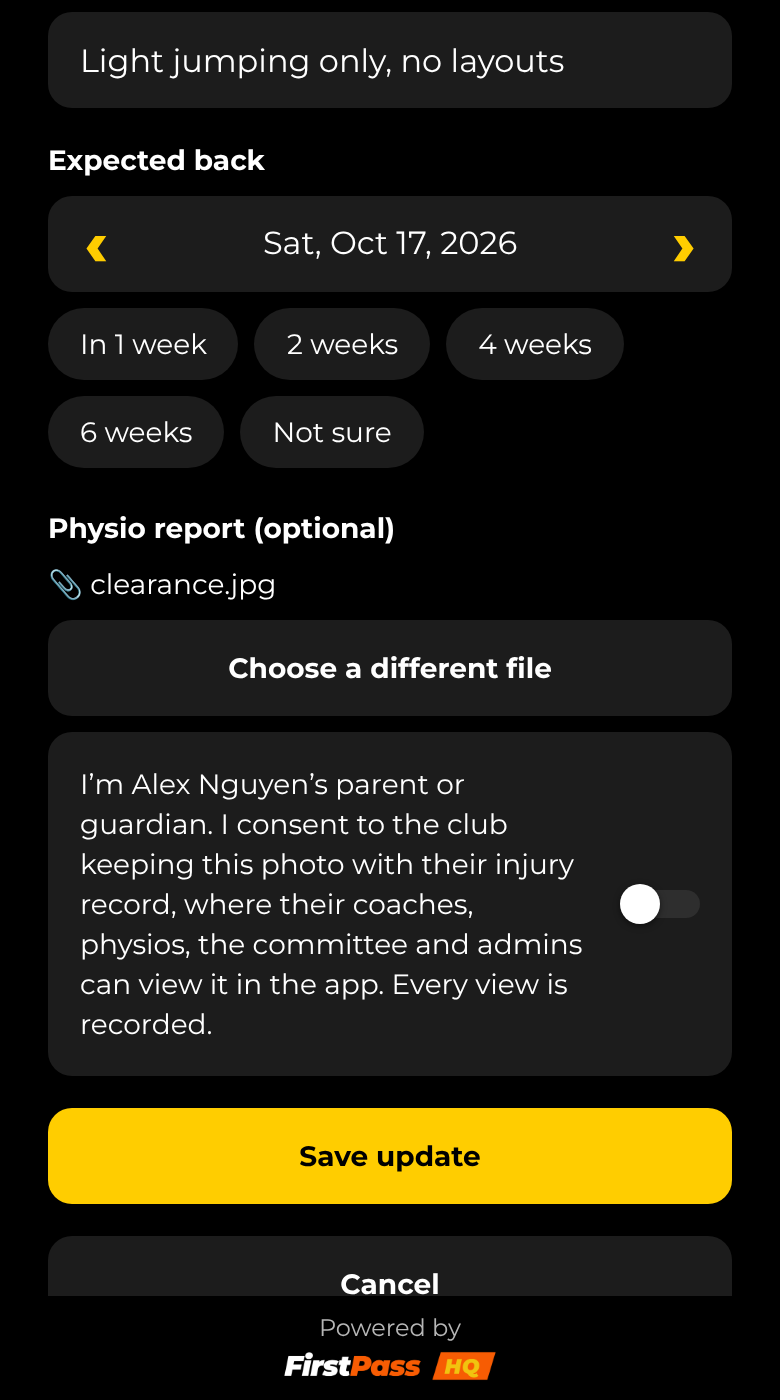
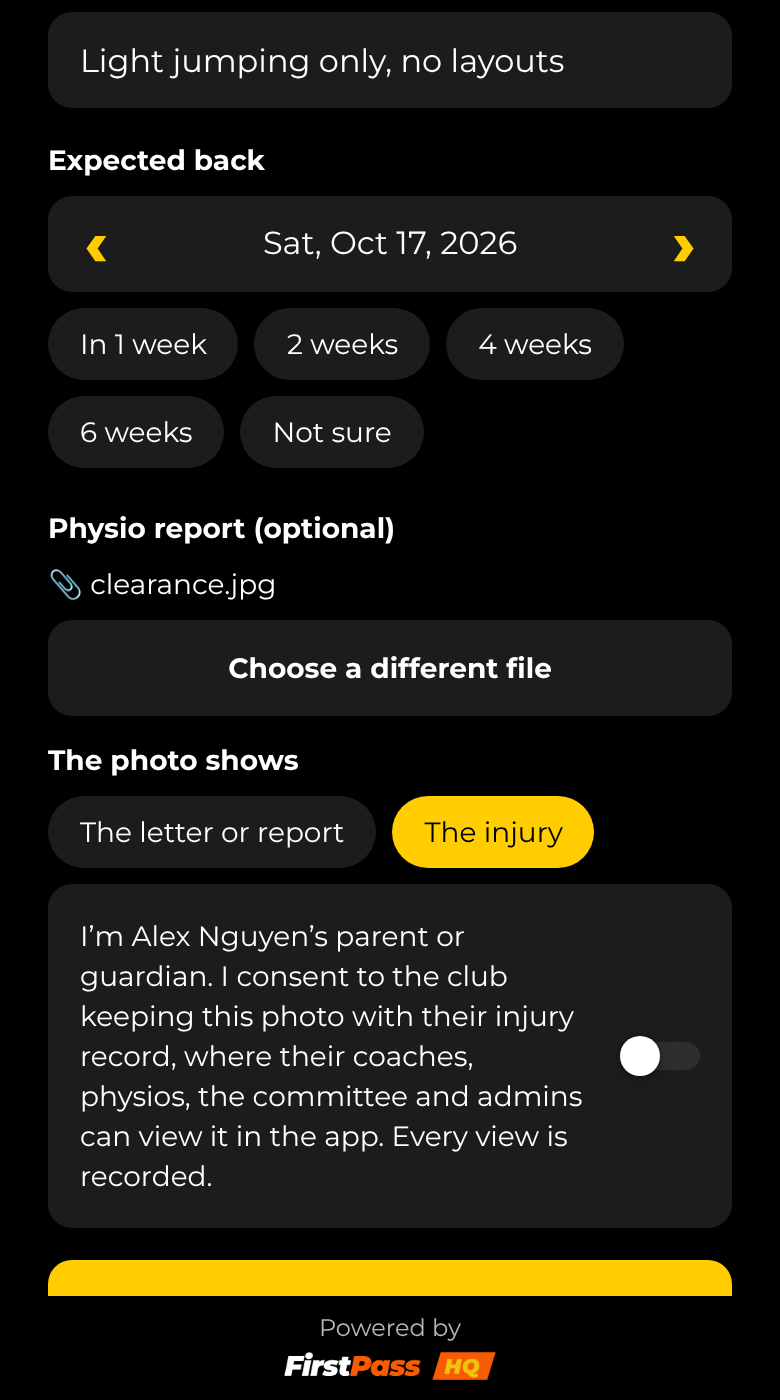
Let under 18s attach a photo of the physio's letter
Families usually photograph the paper letter, so under 18s and their
guardians can now attach a photo once they confirm it shows the letter or
report, not the injury. The confirmation is kept with the photo, with who
gave it and when, and shown with the views and shares. A photo of the
injury itself still needs the club's switch and a verified guardian's
consent.

Claude-Session: https://claude.ai/code/session_01PSj6UtGHkyxoGwMZG7YNkM

Changed region(s): [[0.0615, 0.5221, 0.9538, 0.9521]]

diff --git a/src/app/injuries/[id].tsx b/src/app/injuries/[id].tsx
@@ -8,7 +8,7 @@ import { StatusPill } from '@/components/injury-card';
 import { RaiseConcernLink } from '@/components/safeguarding';
 import { Screen } from '@/components/screen';
 import { ThemedText } from '@/components/themed-text';
-import { Button, Card, ErrorText, TextField } from '@/components/ui';
+import { Button, Card, ChipGroup, ErrorText, TextField } from '@/components/ui';
 import { Spacing } from '@/constants/theme';
 import { useTheme } from '@/hooks/use-theme';
 import { useAuth } from '@/lib/auth';
@@ -17,6 +17,7 @@ import {
   DOCUMENT_TYPES,
   type DocumentRule,
   formatDateString,
+  type PhotoShows,
   injuryUpdateLabels,
   returnQuickPicks,
   shareInjuryDocument,
@@ -285,8 +286,9 @@ function ActionForm({
   const [restrictions, setRestrictions] = useState(injury.restrictions ?? '');
   const [expectedReturn, setExpectedReturn] = useState(injury.expected_return);
   const [attachment, setAttachment] = useState<DocumentPicker.DocumentPickerAsset | null>(null);
-  const [rule, setRule] = useState<DocumentRule>('pdf');
-  const [consent, setConsent] = useState(false);
+  const [rule, setRule] = useState<DocumentRule>('letter');
+  const [shows, setShows] = useState<PhotoShows>('letter');
+  const [confirmed, setConfirmed] = useState(false);
   const [saving, setSaving] = useState(false);
   const [error, setError] = useState<string | null>(null);
   const allowsDocument = action === 'update' || action === 'clearance';
@@ -296,18 +298,18 @@ function ActionForm({
     if (!allowsDocument) return;
     supabase
       .rpc('injury_document_rule', { p_athlete_id: injury.athlete_id })
-      .then(({ data }) => setRule((data as DocumentRule | null) ?? 'pdf'));
+      .then(({ data }) => setRule((data as DocumentRule | null) ?? 'letter'));
   }, [allowsDocument, injury.athlete_id]);
 
   async function pickDocument() {
     const result = await DocumentPicker.getDocumentAsync({
-      // Under 18s attach a letter or report, not a photo of the injury.
-      type: rule === 'pdf' ? ['application/pdf'] : DOCUMENT_TYPES,
+      type: DOCUMENT_TYPES,
       copyToCacheDirectory: true,
     });
     if (!result.canceled) {
       setAttachment(result.assets[0]);
-      setConsent(false);
+      setShows('letter');
+      setConfirmed(false);
       setError(null);
     }
   }
@@ -327,7 +329,7 @@ function ActionForm({
     setError(null);
     try {
       const path = attachment
-        ? await uploadInjuryDocument(injury, attachment, rule, consent)
+        ? await uploadInjuryDocument(injury, attachment, rule, confirmed ? shows : null)
         : null;
       const { error: rpcError } = await rpc(path);
       if (rpcError) throw new Error(rpcError.message);
@@ -415,11 +417,17 @@ function ActionForm({
             variant="secondary"
             onPress={pickDocument}
           />
-          {isPhoto && rule === 'consent' ? (
-            <PhotoConsent
+          {isPhoto && rule !== 'photos' ? (
+            <PhotoDeclaration
               athleteName={injury.athlete_name ?? 'my child'}
-              value={consent}
-              onChange={setConsent}
+              canShowInjury={rule === 'consent'}
+              shows={shows}
+              onShows={(value) => {
+                setShows(value);
+                setConfirmed(false);
+              }}
+              confirmed={confirmed}
+              onConfirm={setConfirmed}
             />
           ) : null}
         </View>
@@ -438,38 +446,65 @@ function ActionForm({
 
 const documentHint: Record<DocumentRule, string> = {
   photos: 'A PDF or photo.',
+  letter: 'A PDF or a photo of the physio’s or doctor’s letter or report, not of the injury.',
   consent:
-    'A PDF of the letter or report. A photo of the injury only if you consent to the club keeping it.',
-  pdf: 'Attach the letter or report as a PDF, not a photo of the injury.',
+    'A PDF or a photo of the letter or report. A photo of the injury only if you consent to the club keeping it.',
 };
 
-/** A guardian's consent to the club keeping a photo of their child's injury. */
-function PhotoConsent({
+/**
+ * For an athlete under 18: what the photo shows, confirmed before it's sent.
+ * A photo of the injury itself is only offered to a verified guardian, when
+ * the club allows it, and needs their consent.
+ */
+function PhotoDeclaration({
   athleteName,
-  value,
-  onChange,
+  canShowInjury,
+  shows,
+  onShows,
+  confirmed,
+  onConfirm,
 }: {
   athleteName: string;
-  value: boolean;
-  onChange: (value: boolean) => void;
+  canShowInjury: boolean;
+  shows: PhotoShows;
+  onShows: (value: PhotoShows) => void;
+  confirmed: boolean;
+  onConfirm: (value: boolean) => void;
 }) {
   const theme = useTheme();
   return (
-    <Card style={styles.consent}>
-      <ThemedText type="small" style={styles.grow}>
-        I’m {athleteName}’s parent or guardian. I consent to the club keeping this photo with their
-        injury record, where their coaches, physios, the committee and admins can view it in the
-        app. Every view is recorded.
-      </ThemedText>
-      <Switch
-        accessibilityLabel="I consent to the club keeping this photo"
-        value={value}
-        onValueChange={onChange}
-        trackColor={{ true: theme.accent, false: theme.backgroundSelected }}
-        thumbColor={theme.text}
-        {...(Platform.OS === 'web' ? { activeThumbColor: theme.onAccent } : {})}
-      />
-    </Card>
+    <View style={styles.document}>
+      {canShowInjury ? (
+        <ChipGroup
+          label="The photo shows"
+          options={[
+            { value: 'letter', label: 'The letter or report' },
+            { value: 'injury', label: 'The injury' },
+          ]}
+          selected={[shows]}
+          onToggle={(value) => onShows(value)}
+        />
+      ) : null}
+      <Card style={styles.consent}>
+        <ThemedText type="small" style={styles.grow}>
+          {shows === 'injury'
+            ? `I’m ${athleteName}’s parent or guardian. I consent to the club keeping this photo with their injury record, where their coaches, physios, the committee and admins can view it in the app. Every view is recorded.`
+            : 'This is a photo of the physio’s or doctor’s letter or report, not of the injury.'}
+        </ThemedText>
+        <Switch
+          accessibilityLabel={
+            shows === 'injury'
+              ? 'I consent to the club keeping this photo'
+              : 'This is a photo of the letter or report'
+          }
+          value={confirmed}
+          onValueChange={onConfirm}
+          trackColor={{ true: theme.accent, false: theme.backgroundSelected }}
+          thumbColor={theme.text}
+          {...(Platform.OS === 'web' ? { activeThumbColor: theme.onAccent } : {})}
+        />
+      </Card>
+    </View>
   );
 }
 
@@ -477,6 +512,7 @@ const eventLabels: Record<InjuryDocumentEvent['kind'], string> = {
   viewed: 'Viewed by',
   shared: 'Shared by',
   consented: 'Photo consent from',
+  letter_declared: 'Confirmed as a photo of the letter by',
 };
 
 /**

diff --git a/src/lib/injuries.ts b/src/lib/injuries.ts
@@ -123,20 +123,23 @@ export function formatDateString(value: string) {
 // ---------------------------------------------------------------------------
 
 /**
- * What the signed-in member can attach for an athlete: 'photos' (a PDF or a
- * photo), 'consent' (a verified guardian may add a photo of their child once
- * they confirm consent) or 'pdf' (under 18s: a letter or report as a PDF).
+ * What the signed-in member can attach for an athlete: 'photos' (adults: a
+ * PDF or any photo), 'letter' (under 18s: a PDF, or a photo confirmed to show
+ * the letter or report) or 'consent' (as 'letter', and a verified guardian
+ * may also add a photo of their child's injury once they confirm consent).
  */
-export type DocumentRule = 'photos' | 'consent' | 'pdf';
+export type DocumentRule = 'photos' | 'letter' | 'consent';
 
-export const PDF_ONLY_MESSAGE = 'Attach the letter or report as a PDF, not a photo of the injury.';
+/** What someone adding a photo for an athlete under 18 says it shows. */
+export type PhotoShows = 'letter' | 'injury';
 
 /** Uploads a picked file for an injury and returns its storage path. */
 export async function uploadInjuryDocument(
   injury: Pick<Injury, 'id' | 'athlete_id'>,
   asset: DocumentPickerAsset,
   rule: DocumentRule,
-  photoConsent: boolean,
+  /** What the photo shows, once confirmed; null when it hasn't been. */
+  photoShows: PhotoShows | null,
 ) {
   if (asset.size && asset.size > MAX_DOCUMENT_BYTES) {
     throw new Error('That file is over 10 MB. Try a smaller photo or a PDF.');
@@ -146,19 +149,23 @@ export async function uploadInjuryDocument(
     throw new Error('Attach a PDF or a photo (JPEG, PNG or HEIC).');
   }
   const photo = contentType !== 'application/pdf';
-  if (photo && rule === 'pdf') throw new Error(PDF_ONLY_MESSAGE);
-  if (photo && rule === 'consent' && !photoConsent) {
-    throw new Error('Confirm your consent before adding a photo of your child.');
+  const declare = photo && rule !== 'photos';
+  if (declare && !photoShows) {
+    throw new Error('Confirm what the photo shows before sending it.');
+  }
+  if (declare && photoShows === 'injury' && rule !== 'consent') {
+    throw new Error('Attach a photo of the letter or report, not of the injury.');
   }
   const body =
     Platform.OS === 'web' && asset.file ? asset.file : await new File(asset.uri).arrayBuffer();
   const path = `${injury.athlete_id}/${injury.id}/${Date.now()}-${safeFileName(asset.name, contentType)}`;
-  if (photo && rule === 'consent') {
-    // The consent is recorded with the photo's path before it uploads.
-    const { error: consentError } = await supabase.rpc('confirm_injury_photo_consent', {
+  if (declare) {
+    // What it shows is recorded with the photo's path before it uploads.
+    const { error: declareError } = await supabase.rpc('confirm_injury_photo', {
       p_path: path,
+      p_kind: photoShows,
     });
-    if (consentError) throw new Error(consentError.message);
+    if (declareError) throw new Error(declareError.message);
   }
   const { error } = await supabase.storage.from(INJURY_BUCKET).upload(path, body, {
     contentType,

diff --git a/src/lib/types.ts b/src/lib/types.ts
@@ -235,12 +235,15 @@ export type InjuryUpdate = {
   created_at: string;
 };
 
-/** A view, share or photo consent on an injury document, for the athlete, guardians and admins. */
+/**
+ * A view, share or photo declaration on an injury document, for the athlete,
+ * guardians and admins.
+ */
 export type InjuryDocumentEvent = {
   document_path: string;
   viewer_name: string | null;
   viewer_role: string | null;
-  kind: 'viewed' | 'shared' | 'consented';
+  kind: 'viewed' | 'shared' | 'consented' | 'letter_declared';
   created_at: string;
 };
 

diff --git a/docs/user-guide.md b/docs/user-guide.md
@@ -478,8 +478,9 @@ Open the injury to see its details and history. While you're injured:
 
 - **Add physio update** records what the physio said, any change to restrictions or your expected
   return date, and optionally a physio report (up to 10 MB). Adults can attach a PDF or a photo.
-  If you're under 18, attach the letter or report as a PDF, not a photo of the injury (see
-  [Injury documents and photos](#injury-documents-and-photos)).
+  If you're under 18, attach the letter or report as a PDF or a photo of the letter, and switch
+  on **This is a photo of the letter** before sending a photo. Never send a photo of the injury
+  itself (see [Injury documents and photos](#injury-documents-and-photos)).
 - If your expected return date passes, your to-do list reminds you to ask for clearance or change
   the date.
 
@@ -555,11 +556,12 @@ As a guardian you:
   their games. You can't set goals or reflect: your athlete and their coaches do that in the app.
 - **Report and update injuries** for your athlete, and ask for clearance, exactly as an athlete
   does (see [Athletes](#4-athletes)). If you look after more than one athlete, choose which one
-  when reporting. Proof is a PDF of the physio's or doctor's letter. If the club allows photos and
-  your identity has been verified, you can add a photo of your child's injury after switching on
-  **I consent**; your consent is kept with the photo. Your child can't add photos themselves.
+  when reporting. Proof is the physio's or doctor's letter, as a PDF or a photo of the letter; with
+  a photo you confirm it shows the letter, not the injury. If the club allows photos of injuries and
+  your identity has been verified, you can choose **The injury** and add one after switching on
+  **I consent**; your consent is kept with the photo. Your child can't add photos of injuries.
 - **See who opened your athlete's injury documents**: under each document, every view and share,
-  by whom and when, plus your photo consents.
+  by whom and when, and what was confirmed about each photo.
 - **Complete integrity training** for your athlete: their training shows in your to-do list and
   on the **Integrity training** screen under their name, and you upload their certificates
   exactly as they would (see [Integrity training](#integrity-training)).
@@ -1392,10 +1394,10 @@ Add the sport's **governing body**: its name, phone or hotline, and complaints f
 club's **safeguarding policy** link too. Everyone sees these on **Raise a concern**. Links must
 start with https://.
 
-**Photos of under 18s' injuries** is off by default, so injury proof for athletes under 18 is a
-PDF of the physio's or doctor's letter. Turn it on only if your club's policy allows photos; even
-then, only a verified parent or guardian can add one, after confirming their consent, and athletes
-under 18 can never add a photo themselves.
+**Photos of under 18s' injuries** is off by default, so injury proof for athletes under 18 is the
+physio's or doctor's letter, as a PDF or a photo confirmed to show the letter. Turn it on only if
+your club's policy allows photos of injuries; even then, only a verified parent or guardian can add
+one, after confirming their consent, and athletes under 18 can never add one themselves.
 
 <img src="user-guide/admin-safeguarding-photos.png" width="210" alt="Safeguarding settings: the switch for photos of under 18s' injuries">
 
@@ -1490,12 +1492,14 @@ register](#the-concerns-register), which prints as a PDF.
 Netball's image rules ask for a parent's consent before a club keeps a photo of a child, and for
 images to stay inside the club. So for athletes under 18:
 
-- **Proof is a PDF.** The athlete or their guardian attaches the physio's or doctor's letter or
-  report as a PDF, not a photo of the injury. The file picker offers PDFs only, and a photo renamed
-  as a PDF is refused.
-- **Photos only with consent.** If an admin allows photos under Safeguarding, a verified parent or
-  guardian can add one after switching on **I consent**. The consent is kept with the photo and
-  shown with the document. Athletes under 18 can never add a photo themselves.
+- **Proof is the letter, not the injury.** The athlete or their guardian attaches the physio's or
+  doctor's letter or report, as a PDF or a photo of the letter. Before a photo is sent, whoever adds
+  it switches on **This is a photo of the letter or report, not of the injury**. That confirmation
+  is kept with the photo, with their name and when, and shown under the document. A photo without
+  it is refused, including one renamed to look like a PDF.
+- **Photos of injuries only with consent.** If an admin allows them under Safeguarding, a verified
+  parent or guardian can choose **The injury** and add one after switching on **I consent**. The
+  consent is kept with the photo and shown with the document. Athletes under 18 can never add one.
 - **Every view is recorded.** A document can only be opened after the app records who is opening
   it, their role and when. The athlete, their parents or guardians and admins see the list under
   each document.
@@ -1504,8 +1508,8 @@ images to stay inside the club. So for athletes under 18:
 
 Athletes who are 18 or over attach a PDF or a photo, and see who opened their documents too.
 
-<img src="user-guide/injury-pdf-only.png" width="210" alt="Physio update form for an athlete under 18, PDF only">
-<img src="user-guide/injury-photo-consent.png" width="210" alt="A guardian confirming consent before adding a photo">
+<img src="user-guide/injury-letter-photo.png" width="210" alt="An athlete under 18 confirming a photo shows the physio's letter">
+<img src="user-guide/injury-photo-consent.png" width="210" alt="A guardian choosing The injury and confirming consent before adding a photo">
 
 ### For parents and guardians
 
@@ -1517,9 +1521,10 @@ Athletes who are 18 or over attach a PDF or a photo, and see who opened their do
   message your child sends as a captain. You can read their daily check-ins and notes, their game
   goals and their injuries.
 - **Your access ends at 18.** Guardian access ends on your child's 18th birthday.
-- **Injury photos need your consent.** Injury proof for under 18s is a PDF letter or report. Only if
-  the club allows it can you, as a verified guardian, add a photo of your child's injury, and only
-  after confirming your consent, which is kept with the photo.
+- **Injury photos need your consent.** Injury proof for under 18s is the letter or report, as a PDF
+  or a photo confirmed to show the letter. Only if the club allows it can you, as a verified
+  guardian, add a photo of your child's injury, and only after confirming your consent, which is
+  kept with the photo.
 - **You see who opened your child's injury documents**, with their role and when, and every share.
 
 ### For children and young people
@@ -1529,8 +1534,8 @@ Athletes who are 18 or over attach a PDF or a photo, and see who opened their do
 - **You're told who reads your check-in note**: your coaches and your parents or guardians.
 - **You can tell someone safely.** The check-in screen has a link to raise a concern, and you can
   hide your name. Kids Helpline (1800 55 1800) is free, any time.
-- **No photos of your injuries.** Attach your physio's or doctor's letter as a PDF instead. You can
-  see everyone who has opened it.
+- **No photos of your injuries.** Attach your physio's or doctor's letter instead, as a PDF or a
+  photo of the letter. You can see everyone who has opened it.
 
 ### For coaches, managers, physios and volunteers
 
